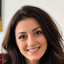
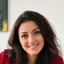
Preview 13: round 8 (Seb t1983u: Jotform CSP, /application, newsletter Unfinished Business, booking heroes, clarity/orientation spacing, Katrin, T Avdyli crop, Home phone revert)

diff --git a/src/styles/round7.css b/src/styles/round7.css
@@ -39,11 +39,15 @@ html body main#main .sq-band--advisor .adv-prose p {
    and set on the card's right edge so her face sits where theirs do. Only her image; the blob shapes are untouched. */
 html body main#main .wf-page-overview .wf-photo[data-wayfinder="Katrin"] picture {
   --r7-k: 1;
+  /* Round 8 (H5): Katrin's picture is 25% larger (444px -> 555px high at desktop) so her head matches Shiva's.
+     The right offset keeps her head centred where it was (137px in from the card's right edge, scaled by --r7-k); the top
+     stays at 26px, so the head is still fully inside the tile. */
+  --r8-boost: 1.25;
   top: 26px;
-  right: calc(-77px * var(--r7-k));
+  right: calc(-131px * var(--r7-k));
   left: auto;
   width: auto;
-  height: calc(444px * var(--r7-k));
+  height: calc(444px * var(--r8-boost) * var(--r7-k));
   transform: none;
 }
 html body main#main .wf-page-overview .wf-photo[data-wayfinder="Katrin"] img {
@@ -232,6 +236,45 @@ html body main#main:is(
   }
 }
 
+/* Round 8 (H4): /clarity testimonials and /orientation case card (the lower band under the booking form).
+   - Left edge = the booking copy column's left edge (desktop >= 1366px: var(--bk-copy-left); tablet: the 900px copy column).
+   - Extra space above: about 100px at 1710, 84px at 1440, 40px at 390 (the gap is added to the band's own top padding). */
+html body main#main:is([data-path="/clarity"], [data-path="/orientation"]) {
+  --r8-after-gap: 40px;
+}
+@media (min-width: 601px) {
+  html body main#main:is([data-path="/clarity"], [data-path="/orientation"]) { --r8-after-gap: 60px; }
+}
+@media (min-width: 1366px) {
+  html body main#main:is([data-path="/clarity"], [data-path="/orientation"]) {
+    --r8-after-gap: clamp(84px, calc(84px + (100vw - 1440px) * 0.0593), 100px);
+  }
+}
+html body main#main:is([data-path="/clarity"], [data-path="/orientation"]) .bk-body .bk-after {
+  padding-top: calc(var(--r8-after-gap) + 0px);
+}
+@media (max-width: 1023px) {
+  html body main#main:is([data-path="/clarity"], [data-path="/orientation"]) .bk-body .bk-after {
+    padding-top: calc(56px + var(--r8-after-gap));
+  }
+}
+/* Tablet and phone: same column as the copy (the copy column is 900px wide at 601-1365px). */
+html body main#main:is([data-path="/clarity"], [data-path="/orientation"]) .bk-after :is(.bk-quotes, .bk-case) {
+  max-width: 900px;
+  margin-inline: auto;
+}
+@media (min-width: 1366px) {
+  html body main#main:is([data-path="/clarity"], [data-path="/orientation"]) .bk-body .bk-after {
+    margin-left: var(--bk-copy-left);
+    padding-left: 0;
+  }
+  html body main#main:is([data-path="/clarity"], [data-path="/orientation"]) .bk-after :is(.bk-quotes, .bk-case) {
+    max-width: 860px;
+    margin-left: 0;
+    margin-right: auto;
+  }
+}
+
 /* Bold, one colour FOUNDRland on the thank-you pages: the existing strong style (GRASS 500) carries it, no split. */
 
 /* Clarity pages: two font colours only, white and GRASS 500 (the HEART 500 labels become GRASS 500). */
@@ -288,7 +331,7 @@ html body main#main .ty-vm.ab-page .ab-band-statements .ab-duo .ab-statement--vi
 }
 
 /* ===== DG-PRE-57: founder applications =====
-   Only /apply-stage-1 (chooser), /apply-exit-prep and /apply-reset (embedded Jotform forms). The confirmation pages use the
+   Only /application (chooser), /apply-exit-prep and /apply-reset (embedded Jotform forms). The confirmation pages use the
    shared ThankYouPage and need no CSS of their own. */
 
 /* Chooser: two equal cards side by side (stacked on tablet portrait and phones). Same card skin as the page's original
@@ -333,6 +376,18 @@ html body main#main .page-apply .r7-choice p {
 /* The button sits at the bottom of both cards, so the two Apply buttons line up. */
 html body main#main .page-apply .r7-choice .r7-choice-meta { margin-bottom: 28px; color: #58447F; }
 html body main#main .page-apply .r7-choice a.btn-apply { margin-top: auto; }
+/* Round 8 (H2): the two chooser buttons are GRASS 500 with DREAM 500 text, GRASS 600 on hover/focus. Scoped to /application's
+   chooser only; every other "Apply for Stage 1" button keeps its HEART style. */
+html body main#main .page-apply .r7-choice a.r5-button-heart {
+  background: #28DBB0 !important;
+  border-color: #28DBB0 !important;
+  color: #2A0B4F !important;
+}
+html body main#main .page-apply .r7-choice a.r5-button-heart:is(:hover, :focus-visible) {
+  background: #01A684 !important;
+  border-color: #01A684 !important;
+  color: #2A0B4F !important;
+}
 @media (max-width: 800px) {
   html body main#main .page-apply .r7-choose { grid-template-columns: minmax(0, 1fr); max-width: 560px; }
 }
@@ -438,14 +493,40 @@ html body main#main .page-home .fl--home .fl-phone-card {
 }
 html body main#main .page-home .fl--home .fl-phone-card--a { left: -30.88%; top: 16.87%; width: 53.24%; }
 html body main#main .page-home .fl--home .fl-phone-card--b { left: 80.59%; top: 61.45%; width: 49.41%; }
-/* Keep the hanging cards inside the card and clear of the copy column: slightly smaller phone on small laptops,
-   a few pixels to the right on wide screens, and a width that leaves room for both cards on phones. */
-@media (min-width: 961px) and (max-width: 1365px) {
-  html body main#main .page-home #message .fl--home .fl-phone { width: min(100%, 270px); }
-}
-@media (min-width: 1366px) {
-  html body main#main .page-home .fl--home .fl-phone { left: 6px; }
-}
+/* A width that leaves room for both hanging cards on phones. (Round 8 H6: the earlier phone size nudge at 961-1365px
+   and the 6px shift at 1366px and up were removed; the phone is back at its original size and position.) */
 @media (max-width: 600px) {
   html body main#main .page-home .fl--home .fl-phone { width: min(270px, calc(62.5% + 15px)); }
+}
+
+/* R7.i /newsletter (Seb t1983u): name + intention first, the book and chapters as the main content, the 7 questions
+   (with Seb's note) as the free gift. Scoped to .nl-page. */
+html body main#main .nl-page .nl-kicker {
+  margin: 0 0 12px;
+  color: #05745B;
+  font-size: 18px;
+  font-weight: 700;
+  letter-spacing: 0.08em;
+  line-height: 1.3;
+  text-transform: uppercase;
+}
+html body main#main .nl-page .nl-book .nl-kicker { margin: 0; color: #28DBB0; }
+html body main#main .nl-page .nl-intention-band .nl-well { padding-block: calc(48px * var(--section-space-scale)); }
+html body main#main .nl-page .nl-intro.nl-intention {
+  max-width: 760px;
+  margin-inline: auto;
+  text-align: center;
+}
+/* The book card and the "Keep reading" sign-up share a white band: tighten the gap between them. */
+html body main#main .nl-page #book .nl-well { padding-bottom: 36px; }
+html body main#main .nl-page #signup .nl-well { padding-top: 36px; }
+/* The 7 questions are now the last content section: Seb's note is their intro, left-aligned with the heading. */
+html body main#main .nl-page #questions .nl-well { padding-bottom: 24px; }
+html body main#main .nl-page #questions .nl-note {
+  max-width: 820px;
+  margin: 28px 0 32px;
+}
+@media (max-width: 599px) {
+  html body main#main .nl-page .nl-kicker { font-size: 15px; }
+  html body main#main .nl-page #questions .nl-note { margin: 22px 0 26px; }
 }

diff --git a/src/data/faqs.ts b/src/data/faqs.ts
@@ -81,7 +81,7 @@ export const faqCategories: FaqCategory[] = [
         q: "I sold my company a few years ago. Am I too late?",
         a: [
           "Not at all. There is no expiry date on “what now?” Some founders come to us right after the sale, others years later, when they notice the old patterns are still running the show. Wherever you are with it, it is a welcome place to start.",
-          "You can [apply for Stage 1](/apply-stage-1) when you are ready.",
+          "You can [apply for Stage 1](/application) when you are ready.",
         ],
       },
       // [ADDED 20 Nov 2026 – source: for-advisors.astro "Room for the family too" (Seb, 19 Nov 2026)]
@@ -137,7 +137,7 @@ export const faqCategories: FaqCategory[] = [
         id: "how-quickly",
         q: "How quickly can we start?",
         a: [
-          "As soon as capacity allows, and within 7 days with Expedited Start. Start timing depends on capacity and travel logistics. On the FRP‑Fit Call we’ll confirm fit, urgency, and the soonest realistic start date. Standard Start begins at the next available slot (capacity‑dependent) — typically 4–8 weeks from acceptance. In acute crises, we’ll assess whether an Expedited Start is appropriate (and whether we can ethically create that space) — if so, start within 7 days after approval. If you want certainty on timing once accepted, ask about Priority Hold. The next step is to [apply for Stage 1](/apply-stage-1) and completing the FRP‑Fit Call.",
+          "As soon as capacity allows, and within 7 days with Expedited Start. Start timing depends on capacity and travel logistics. On the FRP‑Fit Call we’ll confirm fit, urgency, and the soonest realistic start date. Standard Start begins at the next available slot (capacity‑dependent) — typically 4–8 weeks from acceptance. In acute crises, we’ll assess whether an Expedited Start is appropriate (and whether we can ethically create that space) — if so, start within 7 days after approval. If you want certainty on timing once accepted, ask about Priority Hold. The next step is to [apply for Stage 1](/application) and completing the FRP‑Fit Call.",
         ],
       },
       // [SEB]
@@ -355,7 +355,7 @@ export const faqCategories: FaqCategory[] = [
         q: "How much does Stage 1 cost?",
         a: [
           "We share the fee on the FRP-Fit Call, because it depends on your situation and what fits, so we would rather walk you through it properly than give a number that might not suit you. We cover all of it openly in the conversation after you apply, with no pressure to commit, and questions about payment are welcome in that same conversation.",
-          "WHOOP is purchased separately (see [why WHOOP](#why-whoop)), and Stage 1 is covered by our Clarity-First Guarantee. You can [apply for Stage 1](/apply-stage-1) or email [hiya@dogoodagency.co](mailto:hiya@dogoodagency.co) with questions first.",
+          "WHOOP is purchased separately (see [why WHOOP](#why-whoop)), and Stage 1 is covered by our Clarity-First Guarantee. You can [apply for Stage 1](/application) or email [hiya@dogoodagency.co](mailto:hiya@dogoodagency.co) with questions first.",
         ],
       },
       // [ADDED – source: chat-brief-approved.txt §4 "Can you guarantee results?"]

diff --git a/src/styles/round4-p9.css b/src/styles/round4-p9.css
@@ -154,7 +154,7 @@ main#main:is([data-path="/clarity"], [data-path="/orientation"]) { --r4-fc: 0px;
   main#main[data-path="/the-reset"] { --r4-fc: 175px; }
   main#main[data-path="/exit-prep"] { --r4-fc: 47px; }
   main#main[data-path="/faqs"] { --r4-fc: 47px; }
-  main#main[data-path="/apply-stage-1"] { --r4-fc: 15px; }
+  main#main[data-path="/application"] { --r4-fc: 15px; }
   main#main[data-path="/advisor-center"] { --r4-fc: 59px; }
   main#main[data-path="/advisor-center/referrals"] { --r4-fc: 59px; }
   main#main[data-path="/advisor-center/client-tools/readiness-check"] { --r4-fc: 46px; }
@@ -200,7 +200,7 @@ main#main:is([data-path="/clarity"], [data-path="/orientation"]) { --r4-fc: 0px;
   main#main[data-path="/the-reset"] { --r4-fc: 195px; }
   main#main[data-path="/exit-prep"] { --r4-fc: 63px; }
   main#main[data-path="/faqs"] { --r4-fc: 67px; }
-  main#main[data-path="/apply-stage-1"] { --r4-fc: 15px; }
+  main#main[data-path="/application"] { --r4-fc: 15px; }
   main#main[data-path="/advisor-center"] { --r4-fc: 101px; }
   main#main[data-path="/advisor-center/referrals"] { --r4-fc: 101px; }
   main#main[data-path="/advisor-center/client-tools/readiness-check"] { --r4-fc: 0px; }
@@ -246,7 +246,7 @@ main#main:is([data-path="/clarity"], [data-path="/orientation"]) { --r4-fc: 0px;
   main#main[data-path="/the-reset"] { --r4-fc: 107px; }
   main#main[data-path="/exit-prep"] { --r4-fc: 0px; }
   main#main[data-path="/faqs"] { --r4-fc: 0px; }
-  main#main[data-path="/apply-stage-1"] { --r4-fc: 0px; }
+  main#main[data-path="/application"] { --r4-fc: 0px; }
   main#main[data-path="/advisor-center"] { --r4-fc: 13px; }
   main#main[data-path="/advisor-center/referrals"] { --r4-fc: 13px; }
   main#main[data-path="/advisor-center/client-tools/readiness-check"] { --r4-fc: 0px; }

diff --git a/src/data/book.ts b/src/data/book.ts
@@ -9,8 +9,9 @@ export const book = {
   ],
   "teaserClose": "Still in his bathrobe.",
   "question": "who a founder becomes on the first Tuesday after the sale.",
-  "newsletterName": "The Sale, in Chapters",
-  "newsletterSubline": "A novel for founders before and after the sale, drawn from real founder experience. A new chapter every other Tuesday.",
+  "newsletterEyebrow": "A DoGood Publication",
+  "newsletterName": "Unfinished Business",
+  "newsletterSubline": "Because the business isn't the only thing worth building.",
   "intro": "The Sale, in Chapters is a novel told one chapter at a time. It follows Frank, who owns an industrial laundry in Los Angeles, from the day a buyer's letter arrives to the months after the money lands. The story is fiction drawn from real founder experience, written as much for founders getting ready to sell as for those who already have. A new chapter arrives by email every other Tuesday, starting December 15.",
   "subline": "A novel about selling a company, and the life on both sides of the sale.",
   "body": [

diff --git a/src/data/homepage.ts b/src/data/homepage.ts
@@ -34,7 +34,7 @@ export const logos = [
 ] as const;
 
 export const urls = {
-  apply: "/apply-stage-1",
+  apply: "/application",
   partnership: "/pathway",
   caseJ: "/casestudies/j",
   caseV: "/casestudies/v",

diff --git a/src/content/pages/how-it-works.md b/src/content/pages/how-it-works.md
@@ -34,7 +34,7 @@ Apply → Conversation → Start Stage 1
 
 <a class="btn-teal" href="/pathway#anchor-1">See the full process</a>
 
-<a class="btn-apply" href="/apply-stage-1">Apply for Stage 1</a>
+<a class="btn-apply" href="/application">Apply for Stage 1</a>
 
 Limited to five new founders a month
 
@@ -312,7 +312,7 @@ You keep all decisions, plans, and tools from our first sessions. We take real d
 
 Private work. Real consequences. Real change.
 
-<a class="btn-apply" href="/apply-stage-1">Apply for Stage 1</a>
+<a class="btn-apply" href="/application">Apply for Stage 1</a>
 
 Limited to five new founders a month
 
@@ -400,7 +400,7 @@ Step 5 Review in week 3
 
 Invite to Stage 2 or complete Stage 1
 
-<a class="btn-apply" href="/apply-stage-1">Apply for Stage 1</a>
+<a class="btn-apply" href="/application">Apply for Stage 1</a>
 
 Stage 1 (30 days) · Week 3 decision on Stage 2
 

diff --git a/src/content/pages/faqs.md b/src/content/pages/faqs.md
@@ -267,7 +267,7 @@ You keep all decisions, plans, and tools from our first sessions. We take real d
 
 Private work. Real consequences. Real change.
 
-<a class="btn-apply" href="/apply-stage-1">Apply for Stage 1</a>
+<a class="btn-apply" href="/application">Apply for Stage 1</a>
 
 Limited to five new founders a month
 
@@ -355,7 +355,7 @@ Step 5 Review in week 3
 
 Invite to Stage 2 or complete Stage 1
 
-<a class="btn-apply" href="/apply-stage-1">Apply for Stage 1</a>
+<a class="btn-apply" href="/application">Apply for Stage 1</a>
 
 Stage 1 (30 days) · Week 3 decision on Stage 2
 

diff --git a/src/content/pages/casestudies/j.md b/src/content/pages/casestudies/j.md
@@ -9,7 +9,7 @@ start here
 
 meet the team
 
-<a class="btn-apply" href="/apply-stage-1">Apply for Stage 1</a>
+<a class="btn-apply" href="/application">Apply for Stage 1</a>
 
 We protect our founders’ identities. Most founders we work with lead visible companies and public lives –– we don't ask them to tell the private parts of their story publicly. Anonymity lets founders be candid about their intimate work — without risking reputations, partnerships, or market fallout.
 

diff --git a/src/content/pages/casestudies/v.md b/src/content/pages/casestudies/v.md
@@ -9,7 +9,7 @@ start here
 
 meet the team
 
-<a class="btn-apply" href="/apply-stage-1">Apply for Stage 1</a>
+<a class="btn-apply" href="/application">Apply for Stage 1</a>
 
 We protect our founders’ identities. Most founders we work with lead visible companies and public lives –– we don't ask them to tell the private parts of their story publicly. Anonymity lets founders be candid about their intimate work — without risking reputations, partnerships, or market fallout.
 

diff --git a/src/content/pages/wayfinders.md b/src/content/pages/wayfinders.md
@@ -14,7 +14,7 @@ Where Wayfinders Travel To
 
 Each FRP stage includes 1x In-Person Intensive (for Stage 1 + Stage 2). In‑Person Intensive means a 1.5‑day in‑person get-together with your Wayfinder. We'll get on the plane and come to you.
 
-<a class="btn-apply" href="/apply-stage-1">Apply for Stage 1</a>
+<a class="btn-apply" href="/application">Apply for Stage 1</a>
 
 Limited to five new founders a month
 

diff --git a/src/content/pages/newsletter.md b/src/content/pages/newsletter.md
@@ -37,4 +37,4 @@ We'll use your email for the guide and for these notes. Read our [privacy policy
 
 ---
 
-If you already know you want a private place to do this work, you can <a href="/apply-stage-1">apply for Stage 1</a>.
+If you already know you want a private place to do this work, you can <a href="/application">apply for Stage 1</a>.

diff --git a/src/content/pages/about.md b/src/content/pages/about.md
@@ -66,7 +66,7 @@ Complete the short application for Stage 1 (30 days). We'll respond within 24 ho
 
 Private. Limited to 5 new founders a month.
 
-**Apply for Stage 1 →** [/apply-stage-1](/apply-stage-1)
+**Apply for Stage 1 →** [/application](/application)
 
 **See the two-stage partnership →** [/how-it-works](/pathway)
 
